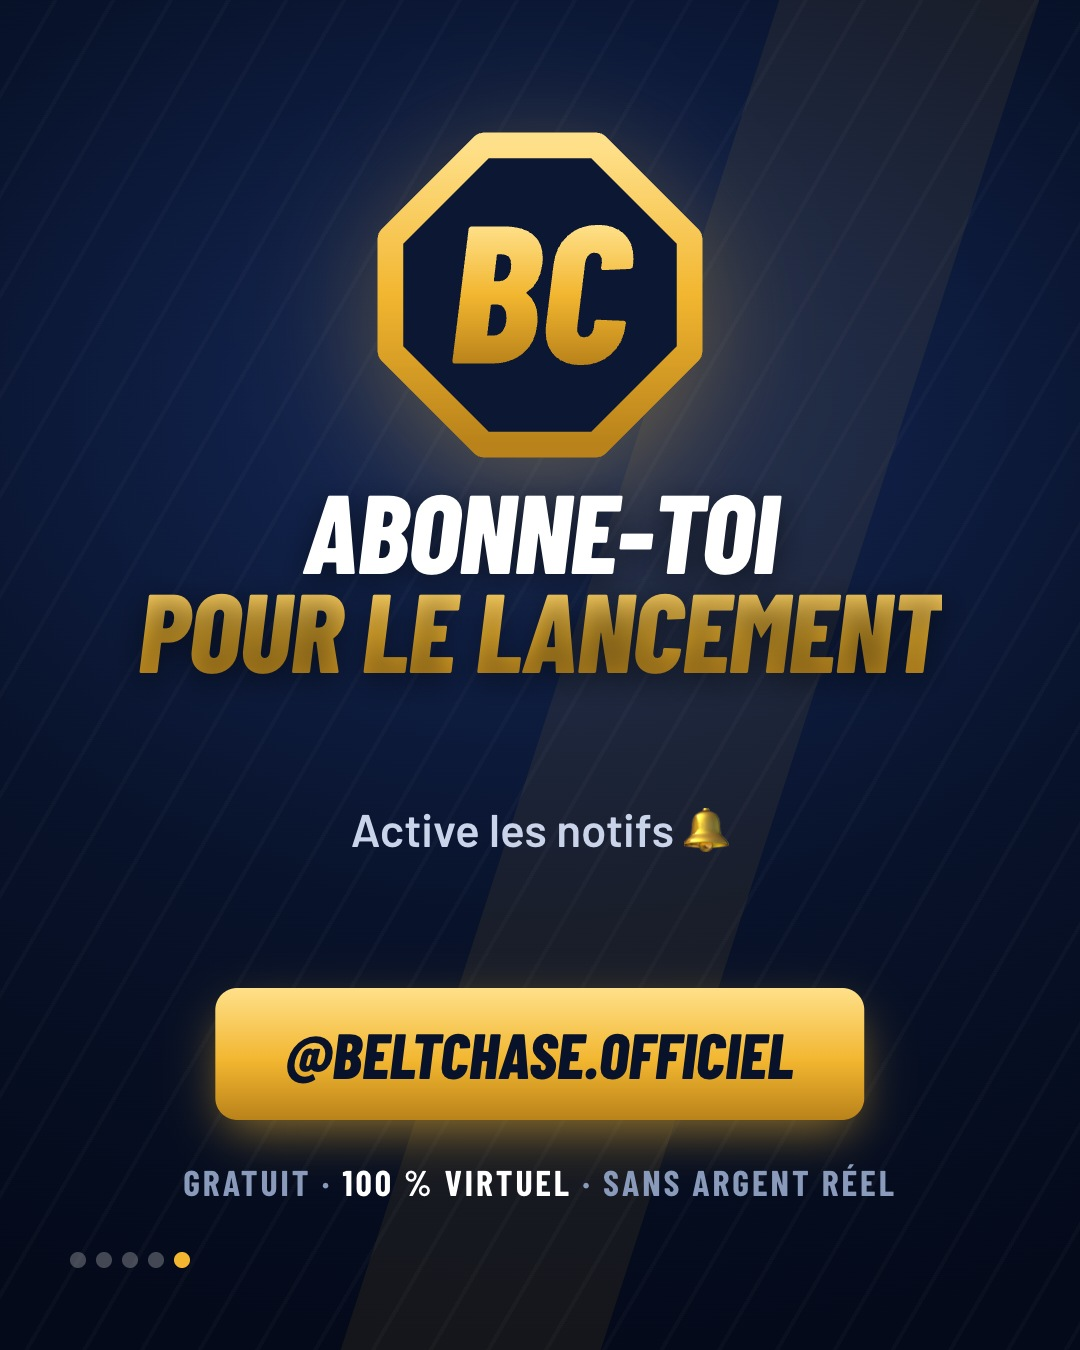
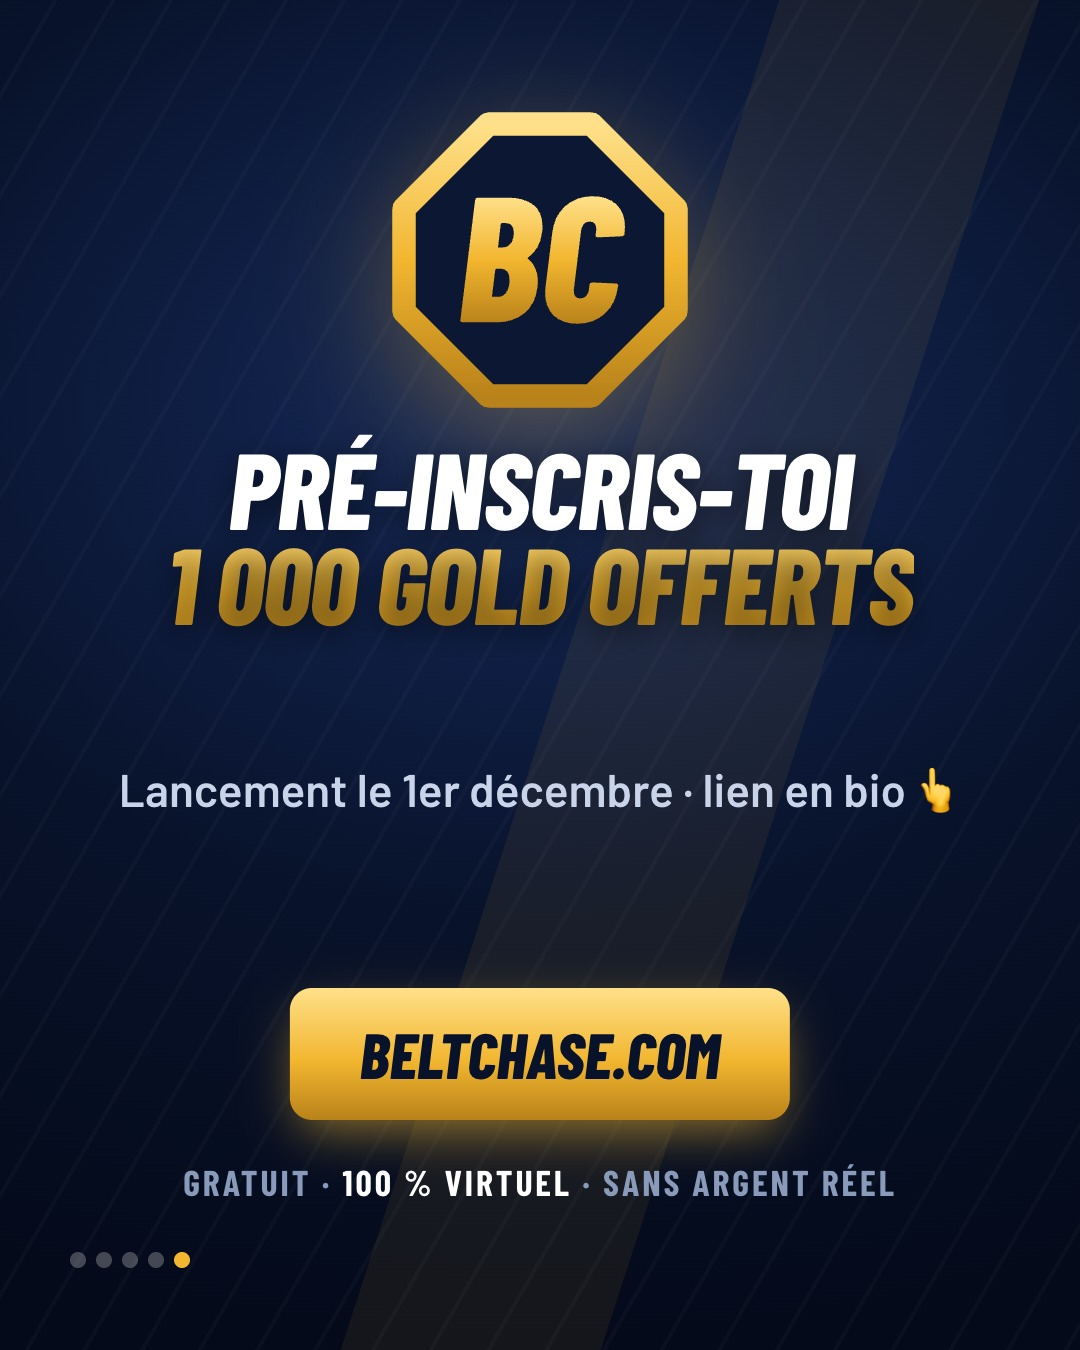
Carrousel Instagram : dernière image « Pré-inscris-toi, 1 000 Gold offerts, lien en bio »

diff --git a/marketing/pub.html b/marketing/pub.html
@@ -125,6 +125,7 @@ const EN = {
   'Chasse': 'Chase', 'BIENTÔT': 'COMING SOON', 'Le jeu de pronos': 'The picks game', 'des fans de combat': 'for fight fans', 'SWIPE →': 'SWIPE →',
   'Pronostique': 'Predict', 'le vainqueur, la méthode, le round': 'the winner, the method, the round', 'Plus ton prono est précis, plus la cote grimpe.': 'The more precise your pick, the bigger the odds.',
   'Chaque mois, un classement.': 'A new ranking every month.', 'Chaque mois, une ceinture.': 'A new belt every month.', 'Abonne-toi': 'Follow us', 'pour le lancement': 'for the launch', 'Active les notifs 🔔': 'Turn on notifications 🔔', 'Le Sniper': 'The Sniper', 'La Machine': 'The Machine', 'Ton Champion': 'Your Champion', 'la ceinture': 'the belt', '← toi, ce mois-ci': '← you, this month',
+  'Pré-inscris-toi': 'Pre-register', '1 000 Gold offerts': '1,000 free Gold', 'Lancement le 1er décembre · lien en bio 👆': 'Launching December 1 · link in bio 👆',
 };
 const L = (s) => (lang === 'en' ? EN[s] || s : s);
 
@@ -228,12 +229,12 @@ const ADS = [
     </div>
     <div class="ad-sub" style="top:960px;font-size:42px">${L('Chaque mois, un classement.')}<br><span style="color:#fff">${L('Chaque mois, une ceinture.')}</span></div>
     <div class="cr-dots"><i></i><i></i><i></i><i class="on"></i><i></i></div><div class="cr-swipe">${L('SWIPE →')}</div>` },
-  { id: 'car-5', fmt: 'portrait', label: 'Carrousel 5/5 · Abonne-toi', html: `
+  { id: 'car-5', fmt: 'portrait', label: 'Carrousel 5/5 · Pré-inscription', html: `
     <div class="ad-slash" style="left:560px"></div>
-    <div class="cr-mark" style="top:130px;width:330px">${markSvg()}</div>
-    <div class="ad-title" style="top:480px;font-size:112px">${L('Abonne-toi')}<br><em>${L('pour le lancement')}</em></div>
-    <div class="ad-sub" style="top:800px">${L('Active les notifs 🔔')}</div>
-    <div class="ad-cta">@beltchase.officiel</div>${foot}
+    <div class="cr-mark" style="top:110px;width:300px">${markSvg()}</div>
+    <div class="ad-title" style="top:440px;font-size:108px">${L('Pré-inscris-toi')}<br><em>${L('1 000 Gold offerts')}</em></div>
+    <div class="ad-sub" style="top:760px">${L('Lancement le 1er décembre · lien en bio 👆')}</div>
+    <div class="ad-cta">beltchase.com</div>${foot}
     <div class="cr-dots"><i></i><i></i><i></i><i></i><i class="on"></i></div>` },
   { id: 'pub-profil', label: 'Photo de profil (1080 × 1080)', square: true, html: `
     <div class="ad-slash" style="left:540px"></div><div class="ad-slash" style="left:760px;width:120px"></div>

diff --git a/marketing/strategie.md b/marketing/strategie.md
@@ -55,7 +55,7 @@ Compte : **@beltchase.officiel** (Instagram, pro). TikTok : même nom, à créer
 
 ## Premier post (prêt) : carrousel de lancement, 5 visuels (marketing/carrousel/car-1…5.jpg)
 1. Accroche « Le jeu de pronos des fans de combat · Bientôt » · 2. Pronostique · 3. 151 cartes ·
-4. Chasse la ceinture · 5. Abonne-toi pour le lancement.
+4. Chasse la ceinture · 5. Pré-inscris-toi, 1 000 Gold offerts, lien en bio.
 
 Légende :
 > Tu crois connaître le MMA mieux que tes potes ? 👀
@@ -64,6 +64,6 @@ Légende :
 > 🃏 151 cartes de combattants à collectionner
 > 🏆 Une ceinture à gagner chaque mois
 > Gratuit · 100 % virtuel · sans argent réel.
-> Abonne-toi et active les notifs pour le lancement 🔔
+> 🎁 Pré-inscris-toi (lien en bio) : 1 000 Gold offerts au lancement le 1er décembre
 > Ton prono pour le prochain gros combat ? Dis-le en commentaire 👇
 > #MMA #UFC #boxe #pronostic #sportsdecombat #MMAFrance
